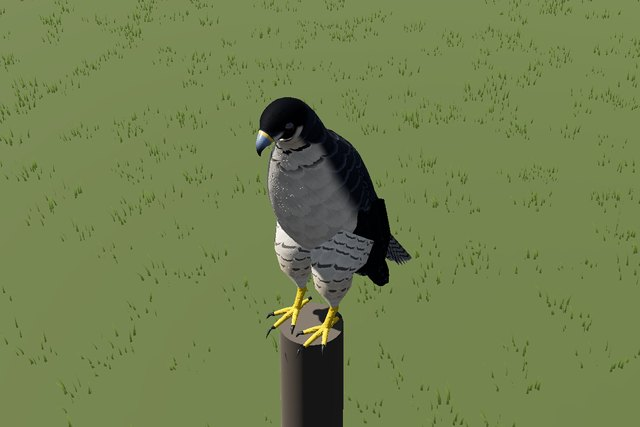
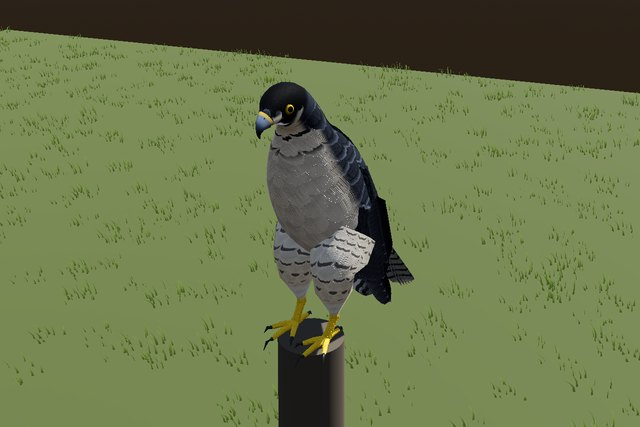
Birds' heads and necks: rigid skulls, eyes seated in the head, bills detailed; the big birds' heads reshaped
Every bird: the skull rigid from the head joint on (its face sheared from
its eyes and bill whenever it tipped its head: the bulging eyes); each eye's
globe sunk square to the skin there till only a cap shows, its rim the lids'
(a falcon's yellow ring the shader's), iris and pupil filling what shows; a
raptor's brow a low ridge, not a pill; bills grained, their ridge worn paler,
the mouth's line in shade, nostrils; colour edges ragged by the feathers
along them, no ruled lines.

Turkey: a small skull, a short arched horn bill, the eye mid-head, snood and
wattle set to it; the poult's head round with a short bill. Great blue heron:
a slender neck, a deeper head. Canada goose: a wedge of a bill, deep at its
root. Golden eagle: its golden crown fading into a dark face. Robin's and
bluebird's throats narrowed to under the bill. Crests hinge at their front,
their foot down in the crown. Portraits rendered again.

diff --git a/README.md b/README.md
@@ -1144,6 +1144,12 @@ At dusk (the global night, or D: court) the males
   or stacked by the shader; the motors: walking and running with planted feet, the head held still between thrusts
   (the bob), pecking to a point, flight (a crouch, a leap, beating up, a glide, a flare, landing at a run) by
   `BirdFlight` (`bird_flight.gd`: beat rate, stall, glide, sink, turn radius from mass, span and wing area).
+  Every bird's head: its skull rigid from the head joint on (the neck's last bend done by there, so its face never
+  shears from its eyes and bill as it tips its head); its eyes seated in the head (`eye_sink`: each globe sunk square
+  to the skin there till only a cap shows, its rim the lids', `orbital` a bare ring's colour: a falcon's yellow), the
+  iris and pupil filling what shows; a raptor's brow a low ridge over the eye; the bill horn grained along and across,
+  its ridge worn paler, the line of its mouth in shade, nostrils (`nostril`), a root of its own colour (`bill_base`),
+  matt or glossy (`bill_gloss`); the plumage's colour edges ragged by the feathers along them (`edge_rag`, `hood_soft`).
   `raptor.gd` (`Raptor`): birds of prey on the same body (the shader's raptor plumage: the cap, a falcon's hood and
   moustache, cheeks, the back's feathers edged pale, the underparts barred, spotted, rufous-barred or streaked, barred
   flight feathers, a banded tail; yellow cere, eye ring and feet; hooked bills, talons). Stood upright on a perch,
